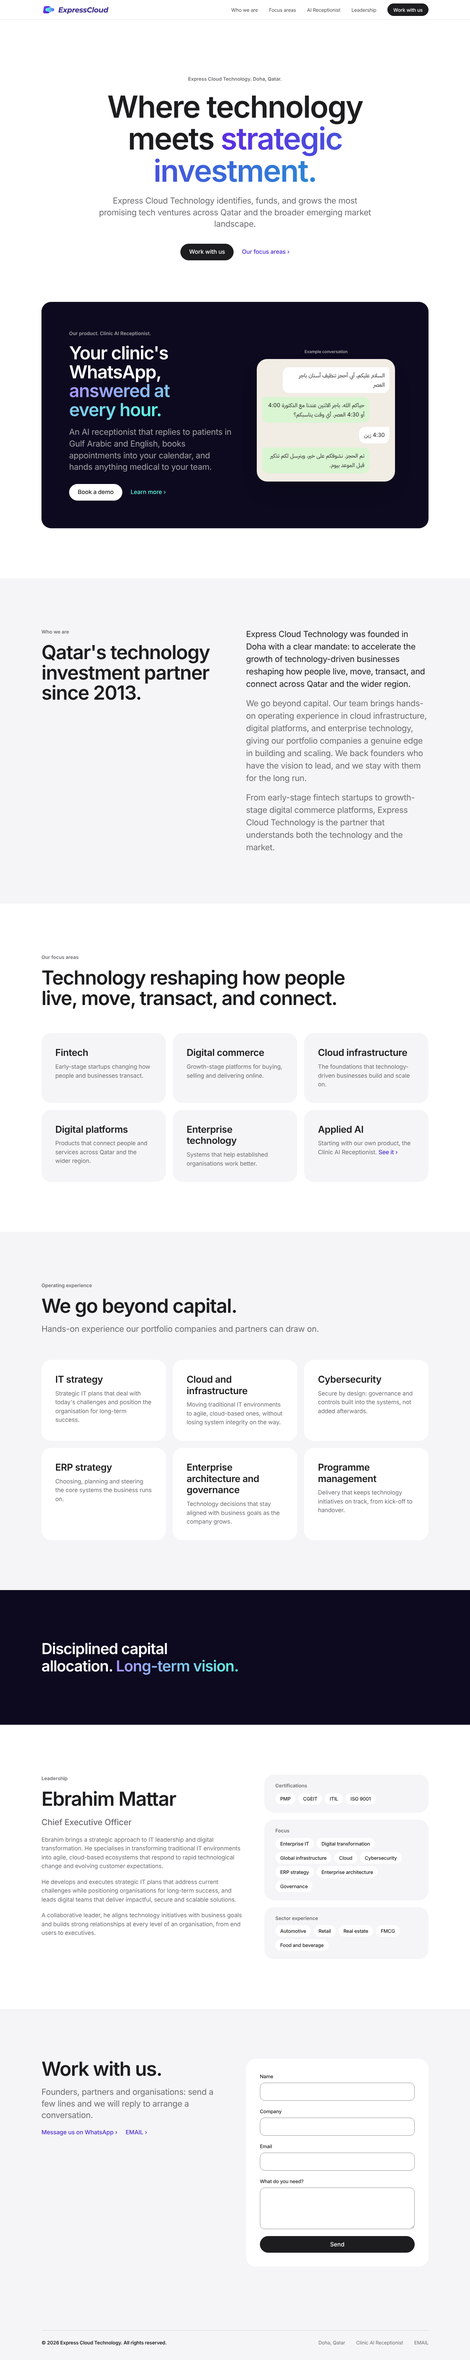
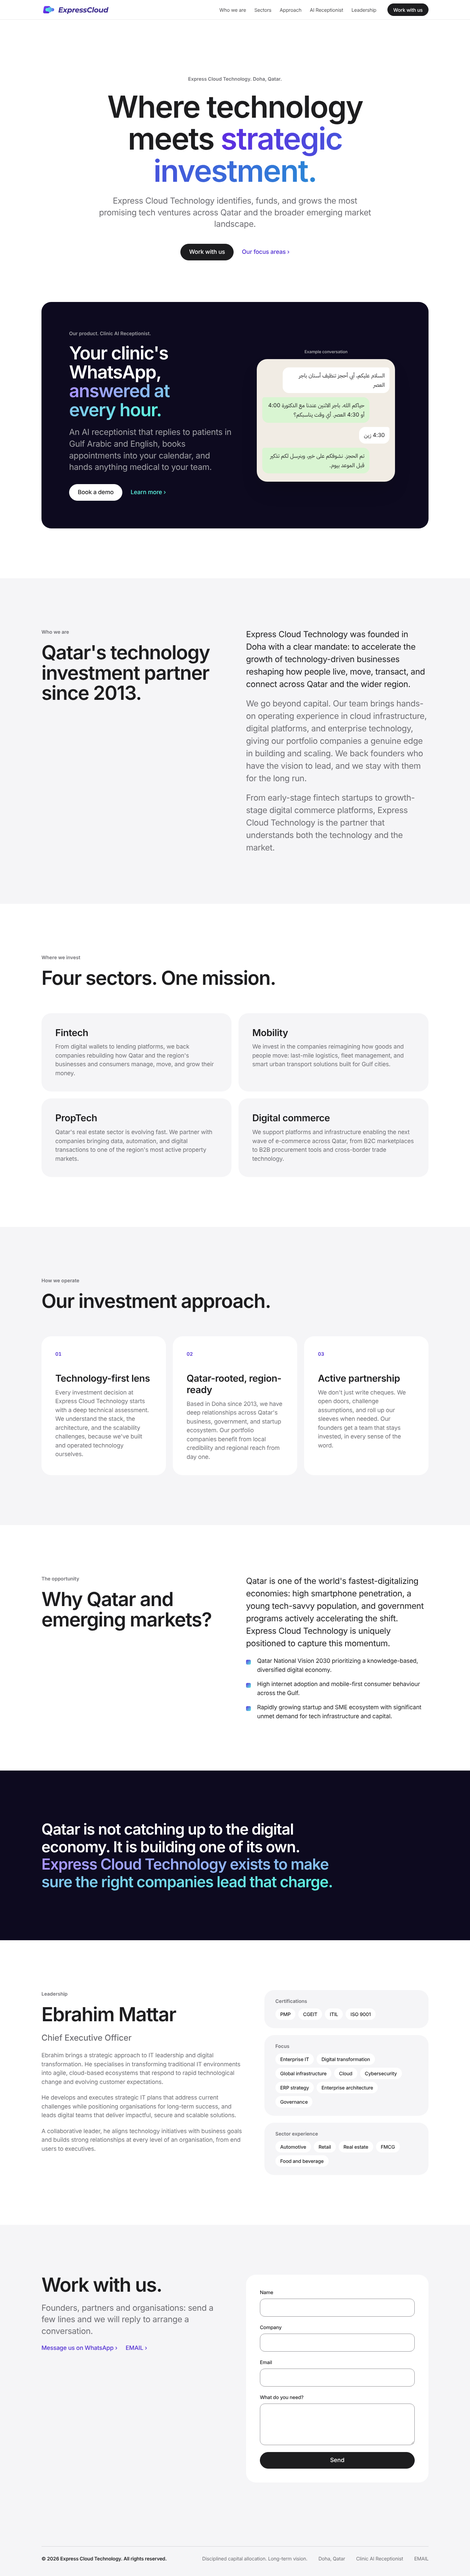
Use the company website's sectors, approach and opportunity content
Replaces the provisional focus areas and operating experience cards
with the original site's four sectors, investment approach, the case
for Qatar and its closing quote.

Claude-Session: https://claude.ai/code/session_01NoR23tS5FkkHHbxi4oB7Ab

diff --git a/artifacts/expresscloud-site/index.html b/artifacts/expresscloud-site/index.html
@@ -19,7 +19,8 @@
     <a class="logo" href="#top" aria-label="ExpressCloud"><img src="/logo-mark.svg" alt="" width="92" height="68"><span class="logo__word">ExpressCloud</span></a>
     <nav class="nav" aria-label="Sections">
       <a href="#about">Who we are</a>
-      <a href="#focus">Focus areas</a>
+      <a href="#focus">Sectors</a>
+      <a href="#approach">Approach</a>
       <a href="clinic-ai-receptionist.html">AI Receptionist</a>
       <a href="#leadership">Leadership</a>
     </nav>
@@ -28,7 +29,7 @@
 </header>
 
 <main id="main">
-  <!-- Hero and "Who we are" use the company website's own wording. -->
+  <!-- Hero, Who we are, sectors, approach and opportunity use the company website's own wording. -->
   <section class="hero center" id="top">
     <div class="wrap stack">
       <p class="eyebrow">Express Cloud Technology. Doha, Qatar.</p>
@@ -83,43 +84,52 @@
   <section class="section" id="focus">
     <div class="wrap">
       <div class="head" data-reveal>
-        <p class="eyebrow">Our focus areas</p>
-        <h2>Technology reshaping how people live, move, transact, and connect.</h2>
+        <p class="eyebrow">Where we invest</p>
+        <h2>Four sectors. One mission.</h2>
       </div>
-      <!-- PROVISIONAL: these five areas are the ones named in the company website's "Who we are" text.
-           The original "Our focus areas" section did not come through in the PDF; replace with it when supplied. -->
-      <ul class="grid grid--3">
-        <li class="card" data-reveal><h3>Fintech</h3><p>Early-stage startups changing how people and businesses transact.</p></li>
-        <li class="card" data-reveal><h3>Digital commerce</h3><p>Growth-stage platforms for buying, selling and delivering online.</p></li>
-        <li class="card" data-reveal><h3>Cloud infrastructure</h3><p>The foundations that technology-driven businesses build and scale on.</p></li>
-        <li class="card" data-reveal><h3>Digital platforms</h3><p>Products that connect people and services across Qatar and the wider region.</p></li>
-        <li class="card" data-reveal><h3>Enterprise technology</h3><p>Systems that help established organisations work better.</p></li>
-        <li class="card" data-reveal><h3>Applied AI</h3><p>Starting with our own product, the Clinic AI Receptionist. <a class="more" href="clinic-ai-receptionist.html">See it</a></p></li>
+      <ul class="grid grid--2">
+        <li class="card" data-reveal><h3>Fintech</h3><p>From digital wallets to lending platforms, we back companies rebuilding how Qatar and the region's businesses and consumers manage, move, and grow their money.</p></li>
+        <li class="card" data-reveal><h3>Mobility</h3><p>We invest in the companies reimagining how goods and people move: last-mile logistics, fleet management, and smart urban transport solutions built for Gulf cities.</p></li>
+        <li class="card" data-reveal><h3>PropTech</h3><p>Qatar's real estate sector is evolving fast. We partner with companies bringing data, automation, and digital transactions to one of the region's most active property markets.</p></li>
+        <li class="card" data-reveal><h3>Digital commerce</h3><p>We support platforms and infrastructure enabling the next wave of e-commerce across Qatar, from B2C marketplaces to B2B procurement tools and cross-border trade technology.</p></li>
       </ul>
     </div>
   </section>
 
-  <section class="section soft" id="expertise">
+  <section class="section soft" id="approach">
     <div class="wrap">
       <div class="head" data-reveal>
-        <p class="eyebrow">Operating experience</p>
-        <h2>We go beyond capital.</h2>
-        <p class="lede">Hands-on experience our portfolio companies and partners can draw on.</p>
+        <p class="eyebrow">How we operate</p>
+        <h2>Our investment approach.</h2>
       </div>
-      <ul class="grid grid--3">
-        <li class="card" data-reveal><h3>IT strategy</h3><p>Strategic IT plans that deal with today's challenges and position the organisation for long-term success.</p></li>
-        <li class="card" data-reveal><h3>Cloud and infrastructure</h3><p>Moving traditional IT environments to agile, cloud-based ones, without losing system integrity on the way.</p></li>
-        <li class="card" data-reveal><h3>Cybersecurity</h3><p>Secure by design: governance and controls built into the systems, not added afterwards.</p></li>
-        <li class="card" data-reveal><h3>ERP strategy</h3><p>Choosing, planning and steering the core systems the business runs on.</p></li>
-        <li class="card" data-reveal><h3>Enterprise architecture and governance</h3><p>Technology decisions that stay aligned with business goals as the company grows.</p></li>
-        <li class="card" data-reveal><h3>Programme management</h3><p>Delivery that keeps technology initiatives on track, from kick-off to handover.</p></li>
-      </ul>
+      <ol class="grid grid--3">
+        <li class="card" data-reveal><span class="card__n" aria-hidden="true">01</span><h3>Technology-first lens</h3><p>Every investment decision at Express Cloud Technology starts with a deep technical assessment. We understand the stack, the architecture, and the scalability challenges, because we've built and operated technology ourselves.</p></li>
+        <li class="card" data-reveal><span class="card__n" aria-hidden="true">02</span><h3>Qatar-rooted, region-ready</h3><p>Based in Doha since 2013, we have deep relationships across Qatar's business, government, and startup ecosystem. Our portfolio companies benefit from local credibility and regional reach from day one.</p></li>
+        <li class="card" data-reveal><span class="card__n" aria-hidden="true">03</span><h3>Active partnership</h3><p>We don't just write cheques. We open doors, challenge assumptions, and roll up our sleeves when needed. Our founders get a team that stays invested, in every sense of the word.</p></li>
+      </ol>
+    </div>
+  </section>
+
+  <section class="section" id="opportunity">
+    <div class="wrap about">
+      <div class="head" data-reveal>
+        <p class="eyebrow">The opportunity</p>
+        <h2>Why Qatar and emerging markets?</h2>
+      </div>
+      <div class="prose" data-reveal>
+        <p>Qatar is one of the world's fastest-digitalizing economies: high smartphone penetration, a young tech-savvy population, and government programs actively accelerating the shift. Express Cloud Technology is uniquely positioned to capture this momentum.</p>
+        <ul class="ticks">
+          <li>Qatar National Vision 2030 prioritizing a knowledge-based, diversified digital economy.</li>
+          <li>High internet adoption and mobile-first consumer behaviour across the Gulf.</li>
+          <li>Rapidly growing startup and SME ecosystem with significant unmet demand for tech infrastructure and capital.</li>
+        </ul>
+      </div>
     </div>
   </section>
 
   <section class="section dark" id="principle">
     <div class="wrap">
-      <p class="statement" data-reveal>Disciplined capital allocation. <span class="grad">Long-term vision.</span></p>
+      <blockquote class="statement" data-reveal>Qatar is not catching up to the digital economy. It is building one of its own. <span class="grad">Express Cloud Technology exists to make sure the right companies lead that charge.</span></blockquote>
     </div>
   </section>
 
@@ -174,6 +184,7 @@
 <footer class="footer">
   <div class="wrap footer__row">
     <span class="footer__name">&copy; 2026 Express Cloud Technology. All rights reserved.</span>
+    <span>Disciplined capital allocation. Long-term vision.</span>
     <span>Doha, Qatar</span>
     <a href="clinic-ai-receptionist.html">Clinic AI Receptionist</a>
     <a href="mailto:EMAIL">EMAIL</a>

diff --git a/artifacts/expresscloud-site/site.css b/artifacts/expresscloud-site/site.css
@@ -116,6 +116,12 @@
 .prose p:first-child { color: var(--fg-1); }
 @media (min-width: 900px) { .about { grid-template-columns: 1fr 1fr; gap: var(--space-16); align-items: start; } }
 
+.ticks { list-style: none; padding: 0; margin: 0; display: grid; gap: var(--space-4); font-size: var(--text-base); letter-spacing: -0.01em; }
+.ticks li { position: relative; padding-inline-start: var(--space-8); color: var(--fg-1); }
+.ticks li::before { content: ""; position: absolute; inset-inline-start: 0; top: 0.5em; width: 14px; height: 14px; border-radius: 4px; background: linear-gradient(135deg, var(--violet), var(--aqua)); }
+blockquote { margin: 0; }
+.nav { gap: var(--space-6); }
+
 /* ---------- Leadership ---------- */
 .person { display: grid; gap: var(--space-10); }
 .person .stack { display: grid; gap: var(--space-5); align-content: start; }

diff --git a/CLAUDE.md b/CLAUDE.md
@@ -10,7 +10,7 @@ Direction: premium and minimal (large type, lots of space, black, white and one 
 - Colours, type and spacing come from `tokens/`; pages never hard-code them.
 - Netlify builds and publishes on every push to `main` (`netlify.toml`). The demo form goes to Netlify Forms (form name `demo`).
 - Run `pnpm run verify` before shipping; it must pass.
-- Company home page (`index.html`): hero, "Who we are" and the closing line are the old company website's own wording; focus areas and operating experience are drafts for the owner to approve. Clinic page (`clinic-ai-receptionist.html`) uses the brief's copy as written. No prices, statistics, testimonials, client logos, awards or promised results.
+- Company home page (`index.html`): hero, Who we are, sectors, approach, opportunity and the quote are the old company website's own wording. Leadership is adapted from the CEO's LinkedIn profile.
 - Never ask for patient data on this site.
 - No emoji, stock photos or robot imagery. The only gradient is the brand violet-to-aqua, used sparingly.
 - Before launch, replace `WHATSAPP_NUMBER` and `EMAIL`, and remove the `noindex` tag.
